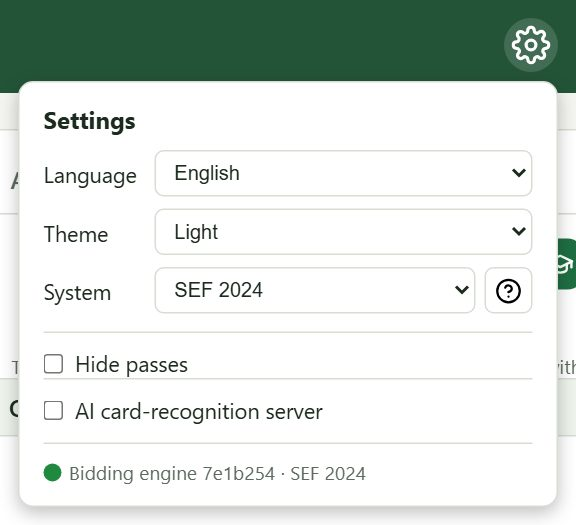
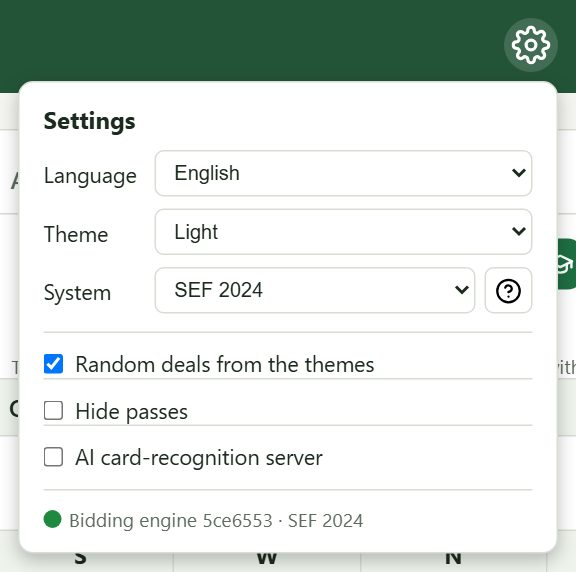
Option : donnes aléatoires tirées des thèmes (activée par défaut)
Une case des Réglages, cochée par défaut et retenue d'une visite à
l'autre : « Donne aléatoire » tire alors une donne au hasard parmi
toutes les donnes thématiques, au lieu de distribuer les 52 cartes.
Le donneur, la vulnérabilité et les bornes de points choisis
s'appliquent ; si aucune donne thématique ne convient (ou si les
fichiers sont injoignables), la donne est distribuée comme avant. Le
titre de la donne indique son thème et son numéro dans la série ;
« Sauver le PBN » garde alors un nom horodaté.

Aide en ligne, README et capture du tutoriel (réglages) mis à jour.

diff --git a/cli/app.js b/cli/app.js
@@ -21,6 +21,7 @@ const IA_REMOTE_KEY = "ia.remote";
 const IA_MODE_KEY = "ia.mode";
 const IA_ENABLED_KEY = "ia.enabled";
 const HIDE_PASSES_KEY = "bids.hidePasses";
+const RANDOM_THEMES_KEY = "bids.randomThemes";
 
 const iaModeSelect = $("#ia-mode");
 iaModeSelect.value = readIaMode();
@@ -40,6 +41,14 @@ iaEnabledToggle.addEventListener("change", applyIaFeature);
 // ses passes. Une simple classe sur la liste, sans la réémettre : chaque ligne
 // y garde son numéro de tour (attribut value), les enchères restantes ne se
 // renumérotent donc pas.
+// Option de tirage, par défaut ON : cochée, « Donne aléatoire » tire une
+// donne parmi les donnes thématiques (voir drawThemedDeal).
+const randomThemesToggle = $("#random-themes");
+randomThemesToggle.checked = readStored(RANDOM_THEMES_KEY, "") !== "0";
+randomThemesToggle.addEventListener("change", () => {
+  saveStored(RANDOM_THEMES_KEY, randomThemesToggle.checked ? "1" : "0");
+});
+
 const hidePassesToggle = $("#hide-passes");
 hidePassesToggle.checked = readStored(HIDE_PASSES_KEY, "") === "1";
 hidePassesToggle.addEventListener("change", applyHidePasses);
@@ -159,6 +168,8 @@ const UI_TEXT = {
     serverIaPlaceholder: "https://exemple.net/openrouter-proxy",
     iaFeature: "Serveur IA de reconnaissance des cartes",
     hidePasses: "Ne pas afficher les passes",
+    randomThemes: "Donnes aléatoires tirées des thèmes",
+    themeDealTitle: "{theme} — donne {n}",
     serverTest: "Tester",
     healthUnknown: "état inconnu",
     versionWasm: "Moteur d'enchères",
@@ -357,6 +368,8 @@ const UI_TEXT = {
     serverIaPlaceholder: "https://example.net/openrouter-proxy",
     iaFeature: "AI card-recognition server",
     hidePasses: "Hide passes",
+    randomThemes: "Random deals from the themes",
+    themeDealTitle: "{theme} — deal {n}",
     serverTest: "Test",
     healthUnknown: "unknown state",
     versionWasm: "Bidding engine",
@@ -901,7 +914,9 @@ $("#save-btn").addEventListener("click", () => {
   const url = URL.createObjectURL(new Blob([text + "\n"], { type: "text/plain" }));
   const a = document.createElement("a");
   a.href = url;
-  a.download = (!multi && (currentThemeFile || $("#file-name").textContent.trim())) || defaultPbnName(lang);
+  // Le titre d'une donne tirée des thèmes est un libellé, pas un nom de fichier.
+  const shown = $("#file-name").textContent.trim();
+  a.download = (!multi && (currentThemeFile || (/\.pbn$/i.test(shown) && shown))) || defaultPbnName(lang);
   document.body.appendChild(a);
   a.click();
   a.remove();
@@ -1029,6 +1044,7 @@ async function drawRandomDeal() {
   if (errEl.textContent) return false;
   const fini = showBusy($("#random-btn"), CONS_TEXT[lang].busyDeal);
   try {
+    if (randomThemesToggle.checked && (await drawThemedDeal())) return true;
     const pbn = await randomPBN(chosenDealer() || pickRandom(SEATS), chosenVul() || pickRandom(VULS));
     if (!pbn) {
       setBoundsError(errEl, CONS_TEXT[lang].errNoDeal);
@@ -1039,6 +1055,52 @@ async function drawRandomDeal() {
   } finally {
     fini();
   }
+}
+
+// Points d'honneur de chaque siège, lus du tag [Deal] d'une donne.
+function dealHCP(block) {
+  const m = block.match(/\[Deal\s+"([NESW]):([^"]+)"\]/i);
+  if (!m) return null;
+  const hands = m[2].trim().split(/\s+/);
+  if (hands.length !== 4) return null;
+  const start = SEATS.indexOf(m[1].toUpperCase());
+  const hcp = {};
+  hands.forEach((h, i) => {
+    hcp[SEATS[(start + i) % 4]] = [...h.toUpperCase()].reduce((n, c) => n + (HONOUR_POINTS[c] || 0), 0);
+  });
+  return hcp;
+}
+
+// Tire une donne au hasard parmi toutes les donnes thématiques, en respectant
+// le donneur, la vulnérabilité et les bornes de points choisis. Rend faux si
+// aucune ne convient, ou si les fichiers ne sont pas joignables : la donne est
+// alors distribuée comme d'habitude.
+async function drawThemedDeal() {
+  if (!themeFiles) themeFiles = await loadThemeIndex();
+  await Promise.all(themeFiles.map((th) => loadThemeText(th).catch(() => null)));
+  const dealer = chosenDealer();
+  const vul = chosenVul();
+  const pool = [];
+  for (const th of themeFiles) {
+    if (!th.text) continue;
+    splitPbnGames(th.text).forEach((block, i) => {
+      const d = block.match(/\[Dealer\s+"([NESW])"\]/i);
+      const v = block.match(/\[Vulnerable\s+"([^"]*)"\]/i);
+      if (dealer && (!d || d[1].toUpperCase() !== dealer)) return;
+      if (vul && normalizeVul(v ? v[1] : "") !== vul) return;
+      const hcp = dealHCP(block);
+      if (!hcp || !SEATS.every((seat) => isWithinBounds(hcp[seat], hcpBounds[seat]))) return;
+      pool.push({ th, block, n: i + 1 });
+    });
+  }
+  if (!pool.length) return false;
+  const pick = pickRandom(pool);
+  loadPbn(pick.block);
+  const t = UI_TEXT[$("#lang").value];
+  $("#file-name").textContent = t.themeDealTitle
+    .replace("{theme}", themeName(pick.th, $("#lang").value)).replace("{n}", pick.n);
+  settlePbn();
+  return true;
 }
 
 $("#random-btn").addEventListener("click", drawRandomDeal);
@@ -5443,8 +5505,8 @@ const TUTORIAL_STEPS = [
     en: ["The screen", "On the left, the table: the deal and the buttons that create or change it.\nOn the right, three tabs: Auction, Par and Practise.\nAt the top, the cog opens the settings, the ▶ screen this tutorial and ? the guide."],
   },
   {
-    fr: ["Obtenir une donne", "Donne aléatoire tire une donne complète.\nLa flèche à côté propose les donnes thématiques ou un fichier .pbn (un fichier de tournoi aussi : un sélecteur choisit alors la donne)."],
-    en: ["Getting a deal", "Random deal draws a complete deal.\nThe arrow next to it offers themed deals or a .pbn file (a tournament file too: a selector then picks the deal)."],
+    fr: ["Obtenir une donne", "Donne aléatoire tire une donne complète, par défaut parmi les donnes thématiques (voir les réglages).\nLa flèche à côté propose les donnes thématiques ou un fichier .pbn (un fichier de tournoi aussi : un sélecteur choisit alors la donne)."],
+    en: ["Getting a deal", "Random deal draws a complete deal, by default among the themed deals (see the settings).\nThe arrow next to it offers themed deals or a .pbn file (a tournament file too: a selector then picks the deal)."],
   },
   {
     fr: ["Partager la donne", "Copiez un lien qui contient la donne, sauvez-la dans un fichier .pbn, ou affichez son texte PBN pour le copier ou y coller une donne reçue.\nDonneur et Vulnérabilité s'imposent ou se tirent au sort."],

diff --git a/cli/index.html b/cli/index.html
@@ -177,6 +177,12 @@
               </button>
             </div>
           </div>
+          <!-- Par défaut ON : cochée, « Donne aléatoire » tire une donne au hasard
+               parmi les donnes thématiques (voir drawThemedDeal dans app.js). -->
+          <label class="feature-toggle">
+            <input id="random-themes" type="checkbox">
+            <span data-i18n="randomThemes">Donnes aléatoires tirées des thèmes</span>
+          </label>
           <!-- Par défaut OFF : cochée, la séquence commentée ne liste plus les
                passes (voir applyHidePasses dans app.js). -->
           <label class="feature-toggle">
@@ -688,7 +694,7 @@
 
         <h3>2. Obtenir une donne</h3>
         <ul class="help-icons">
-          <li><span data-help-icon="dice"></span><span><b>Donne aléatoire</b> : tire une donne complète, en respectant les bornes de points (voir §3).</span></li>
+          <li><span data-help-icon="dice"></span><span><b>Donne aléatoire</b> : tire une donne complète, en respectant les bornes de points (voir §3). Par défaut, elle la choisit parmi les donnes thématiques (option des Réglages, voir §8).</span></li>
         </ul>
         <p>La <b>flèche</b> à côté de ce bouton ouvre les autres façons d'obtenir une donne :</p>
         <ul class="help-icons">
@@ -783,6 +789,7 @@
         <ul>
           <li><b>Langue</b> (français ou anglais) et <b>Thème</b> (automatique, clair ou sombre).</li>
           <li><b>Système</b> : le système d'enchères que le moteur applique, c'est-à-dire l'un des fichiers de règles du dossier <code>rules/</code> (par défaut <b>SEF 2024</b>, <code>default.yaml</code>). Le choix est mémorisé, et les enchères affichées sont recalculées aussitôt. Le bouton <b>?</b> à côté ouvre sa description complète en PDF, règle par règle.</li>
+          <li><b>Donnes aléatoires tirées des thèmes</b> (cochée par défaut) : <b>Donne aléatoire</b> tire une donne au hasard parmi toutes les donnes thématiques ; le titre de la donne indique son thème. Le donneur, la vulnérabilité et les bornes de points choisis s'appliquent ; si aucune donne thématique ne leur convient, la donne est tirée comme d'habitude. Décochée, <b>Donne aléatoire</b> distribue les 52 cartes au hasard.</li>
           <li><b>Ne pas afficher les passes</b> : la séquence commentée ne liste plus que les enchères, contres et surcontres ; chaque ligne garde son numéro de tour. La grille des enchères, elle, garde tous les passes.</li>
           <li><b>Serveur IA de reconnaissance des cartes</b> : l'option de la lecture par photo, le serveur visé (<b>Local</b> ou <b>Distant</b>, avec son adresse) et <b>Tester</b> pour vérifier qu'il répond.</li>
           <li>La <b>pastille verte</b> indique que le moteur d'enchères est prêt, avec sa version et le système choisi. S'il ne se charge pas, un point rouge apparaît sur la roue dentée et la raison s'affiche au pied de la page : rechargez-la, ou essayez un autre navigateur.</li>
@@ -813,7 +820,7 @@
 
         <h3>2. Getting a deal</h3>
         <ul class="help-icons">
-          <li><span data-help-icon="dice"></span><span><b>Random deal</b>: draws a full deal, within the point bounds (see §3).</span></li>
+          <li><span data-help-icon="dice"></span><span><b>Random deal</b>: draws a full deal, within the point bounds (see §3). By default it picks it among the themed deals (a Settings option, see §8).</span></li>
         </ul>
         <p>The <b>arrow</b> next to that button opens the other ways to get a deal:</p>
         <ul class="help-icons">
@@ -908,6 +915,7 @@
         <ul>
           <li><b>Language</b> (French or English) and <b>Theme</b> (automatic, light or dark).</li>
           <li><b>System</b>: the bidding system the engine applies, that is one of the rules files of the <code>rules/</code> folder (<b>SEF 2024</b>, <code>default.yaml</code>, by default). The choice is remembered, and the displayed auction is recomputed at once. The <b>?</b> button next to it opens its full description as a PDF, rule by rule.</li>
+          <li><b>Random deals from the themes</b> (on by default): <b>Random deal</b> picks a deal at random among all the themed deals; the deal's title gives its topic. The dealer, vulnerability and point bounds you chose apply; if no themed deal fits them, the deal is drawn as usual. Off, <b>Random deal</b> deals the 52 cards at random.</li>
           <li><b>Hide passes</b>: the annotated auction lists only bids, doubles and redoubles; each line keeps its turn number. The auction grid still shows every pass.</li>
           <li><b>AI card-recognition server</b>: the photo-reading option, the server it targets (<b>Local</b> or <b>Remote</b>, with its address) and <b>Test</b> to check that it answers.</li>
           <li>The <b>green dot</b> shows that the bidding engine is ready, with its version and the chosen system. If it fails to load, a red dot appears on the cog and the reason shows at the bottom of the page: reload it, or try another browser.</li>
